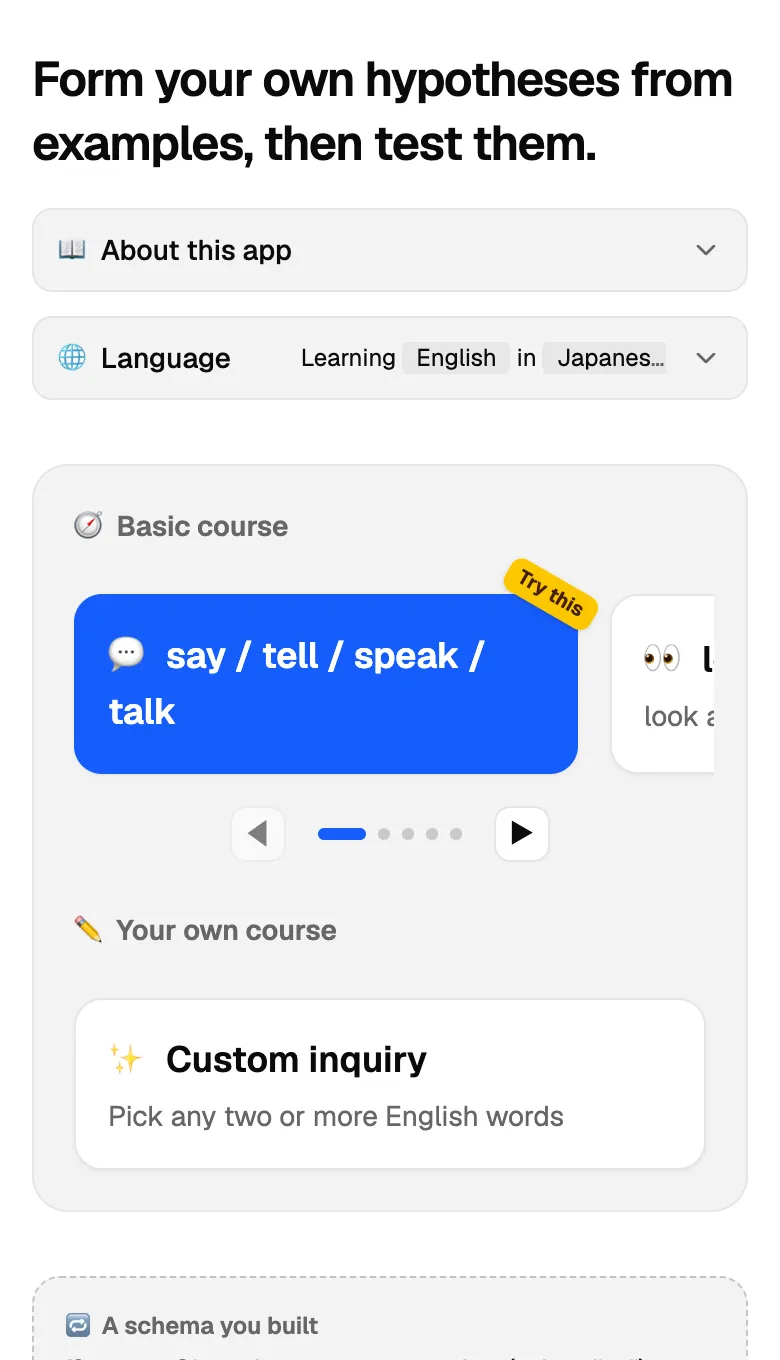
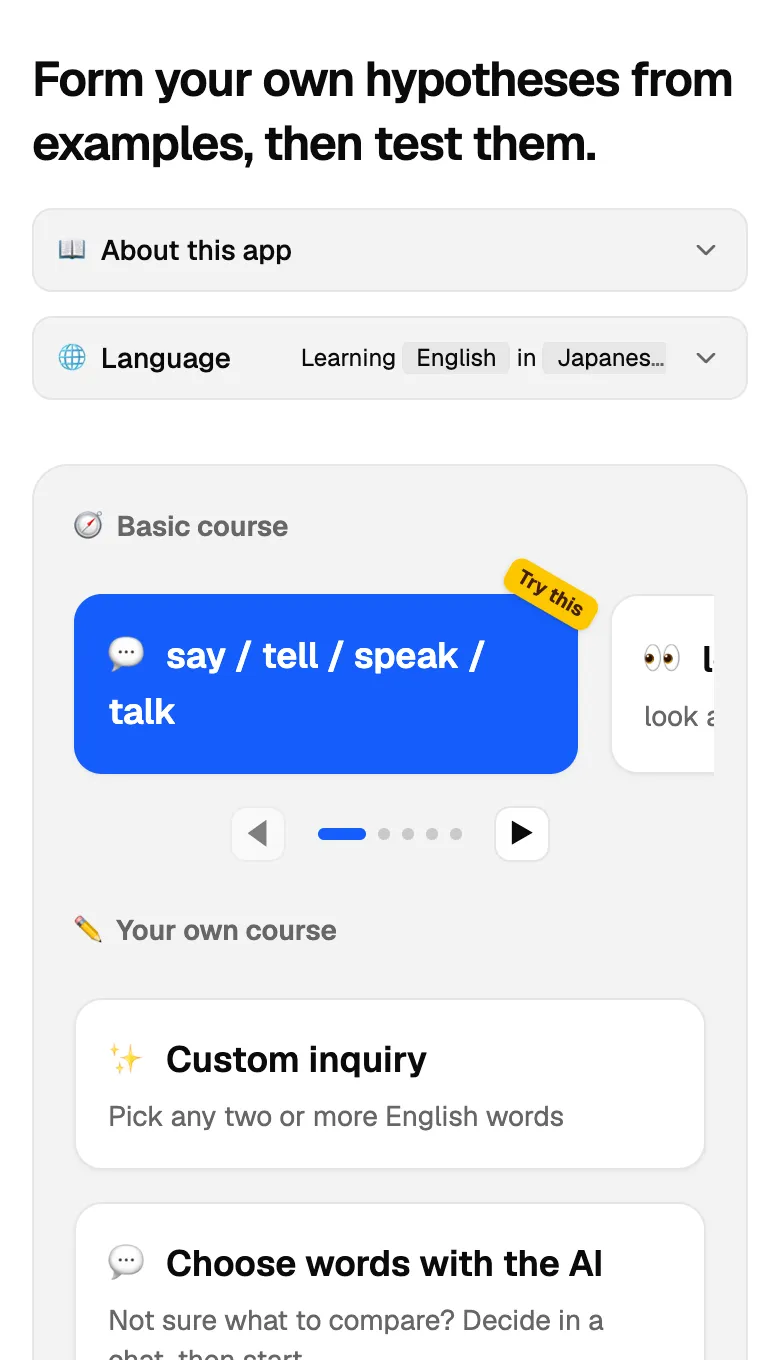
語の組み合わせをAIとチャットで相談し、そのまま探究を始められるようにする (#48)

Changed region(s): [[0.0615, 0.8956, 0.7692, 1.0]]

diff --git a/src/components/inquiry/ConsultDialog.tsx b/src/components/inquiry/ConsultDialog.tsx
@@ -1,0 +1,124 @@
+import { useEffect, useRef, useState } from "react";
+import { nanoid } from "nanoid";
+import { Send } from "lucide-react";
+import { Button } from "@/components/ui/button";
+import { Dialog, DialogContent, DialogDescription, DialogFooter, DialogHeader, DialogTitle } from "@/components/ui/dialog";
+import { Textarea } from "@/components/ui/textarea";
+import { useT } from "@/lib/i18n";
+import { describeError, setActiveInquiry } from "@/lib/llm/client";
+import { consultTargets, type ConsultReply, type ConsultTurn } from "@/lib/llm/prompts";
+import type { Target } from "@/lib/types";
+import { cn } from "@/lib/utils";
+import { ErrorText } from "./ErrorText";
+import { FreeTierFullNote } from "./FreeTierFullNote";
+import { NoCredentialNote } from "./NoCredentialNote";
+import { targetColor } from "./target-color";
+
+export type ConsultedTargets = Omit<Target, "id">[];
+
+/**
+ * A chat for learners who do not know which words to compare yet. It ends by handing a combination to
+ * the new-inquiry dialog, together with the inquiry id the chat's AI calls were charged to: the free tier
+ * counts per inquiry, so the consultation and the inquiry it leads to cost one of today's inquiries, not two.
+ */
+export function ConsultDialog({
+  l1,
+  l2,
+  open,
+  onOpenChange,
+  onStart,
+}: {
+  l1: string;
+  l2: string;
+  open: boolean;
+  onOpenChange: (o: boolean) => void;
+  onStart: (targets: ConsultedTargets, inquiryId: string) => void;
+}) {
+  const t = useT();
+  const [inquiryId] = useState(() => nanoid(10));
+  const [turns, setTurns] = useState<(ConsultTurn & { suggestion?: ConsultReply["suggestion"] })[]>([]);
+  const [draft, setDraft] = useState("");
+  const [busy, setBusy] = useState(false);
+  const [error, setError] = useState<string | null>(null);
+  const bottom = useRef<HTMLDivElement>(null);
+
+  useEffect(() => {
+    setActiveInquiry(inquiryId);
+    return () => setActiveInquiry(null);
+  }, [inquiryId]);
+  useEffect(() => { bottom.current?.scrollIntoView({ block: "end" }); }, [turns, busy]);
+
+  async function send() {
+    const text = draft.trim();
+    if (!text || busy) return;
+    const history = [...turns, { role: "learner" as const, text }];
+    setTurns(history);
+    setDraft("");
+    setError(null);
+    setBusy(true);
+    try {
+      const { data } = await consultTargets(l1, l2, history.map(({ role, text }) => ({ role, text })));
+      setTurns([...history, { role: "assistant", text: data.reply, suggestion: data.suggestion && data.suggestion.length >= 2 ? data.suggestion.slice(0, 4) : null }]);
+    } catch (e) {
+      setError(describeError(e));
+      // Give the message back so it can be sent again as it was.
+      setTurns(turns);
+      setDraft(text);
+    } finally {
+      setBusy(false);
+    }
+  }
+
+  return (
+    <Dialog open={open} onOpenChange={onOpenChange}>
+      <DialogContent className="flex max-h-[90dvh] flex-col sm:max-w-lg">
+        <DialogHeader>
+          <DialogTitle>{t({ ja: "💬 比べる語をAIと相談する", en: "💬 Choose words with the AI" })}</DialogTitle>
+          <DialogDescription className="whitespace-pre-line">
+            {t({
+              ja: "言いたいことや、迷っている表現を書いてください。\n比べるとよい語の組み合わせを一緒に考えます（違いの答えは教えません）。",
+              en: "Write what you want to say, or which expressions confuse you.\nThe AI suggests words worth comparing (without telling you how they differ).",
+            })}
+          </DialogDescription>
+        </DialogHeader>
+
+        <div className="grid min-h-24 gap-3 overflow-y-auto" aria-live="polite">
+          {turns.map((x, i) => (
+            <div key={i} className={cn("grid gap-2", x.role === "learner" && "justify-items-end")}>
+              <p lang={l1} className={cn("max-w-[85%] rounded-xl px-3 py-2 text-sm whitespace-pre-line", x.role === "learner" ? "bg-primary text-primary-foreground" : "bg-muted")}>{x.text}</p>
+              {x.suggestion && (
+                <div className="grid max-w-[85%] gap-2 rounded-xl border p-3">
+                  <div className="flex flex-wrap gap-2">
+                    {x.suggestion.map((s, j) => (
+                      <span key={j} lang={l2} className={cn("rounded-lg border px-3 py-1 text-base", targetColor(j))}>{s.label}</span>
+                    ))}
+                  </div>
+                  <Button size="sm" onClick={() => onStart(x.suggestion!, inquiryId)}>{t({ ja: "🚀 この組み合わせで探究を始める", en: "🚀 Start an inquiry with these" })}</Button>
+                </div>
+              )}
+            </div>
+          ))}
+          {busy && <p className="text-sm text-muted-foreground">{t({ ja: "考えています…", en: "Thinking…" })}</p>}
+          <div ref={bottom} />
+        </div>
+
+        {error && <ErrorText code={error} className="text-sm text-destructive" />}
+        <FreeTierFullNote active={open} />
+        <NoCredentialNote />
+        <DialogFooter>
+          <form className="flex w-full items-end gap-2" onSubmit={(e) => { e.preventDefault(); void send(); }}>
+            <Textarea
+              lang={l1}
+              value={draft}
+              onChange={(e) => setDraft(e.target.value)}
+              // Enter sends; Shift+Enter and IME confirmation do not.
+              onKeyDown={(e) => { if (e.key === "Enter" && !e.shiftKey && !e.nativeEvent.isComposing) { e.preventDefault(); void send(); } }}
+              placeholder={t({ ja: "例: 「思う」を英語でどう言い分ければいい？", en: "e.g. Which words mean 'think' in different ways?" })}
+            />
+            <Button type="submit" size="icon" className="shrink-0" disabled={busy || !draft.trim()} aria-label={t({ ja: "送信", en: "Send" })}><Send /></Button>
+          </form>
+        </DialogFooter>
+      </DialogContent>
+    </Dialog>
+  );
+}

diff --git a/src/pages/Home.tsx b/src/pages/Home.tsx
@@ -2,6 +2,7 @@ import { useEffect, useState, type ReactNode } from "react";
 import { Link, useNavigate } from "react-router-dom";
 import { useLiveQuery } from "dexie-react-hooks";
 import { Trash2 } from "lucide-react";
+import { ConsultDialog, type ConsultedTargets } from "@/components/inquiry/ConsultDialog";
 import { NewInquiryDialog } from "@/components/inquiry/NewInquiryDialog";
 import { TargetBadge } from "@/components/inquiry/TargetBadge";
 import { Button } from "@/components/ui/button";
@@ -62,7 +63,8 @@ export function Home() {
   const t = useT();
   const nav = useNavigate();
   const { uiLang, defaultL2, tutorial } = useSettings();
-  const [dialog, setDialog] = useState<{ group: CourseGroup | null; preselect?: string[] } | null>(null);
+  const [dialog, setDialog] = useState<{ group: CourseGroup | null; preselect?: string[]; initialTargets?: ConsultedTargets; inquiryId?: string } | null>(null);
+  const [consulting, setConsulting] = useState(false);
   const loadedInquiries = useLiveQuery(() => db.inquiries.orderBy("updatedAt").reverse().toArray(), []);
   const loadedNotes = useLiveQuery(() => db.schemaNotes.orderBy("createdAt").reverse().limit(1).toArray(), []);
   const inquiries = loadedInquiries ?? [];
@@ -208,6 +210,10 @@ export function Home() {
               <div className="text-lg font-semibold"><span className="mr-2">✨</span>{t({ ja: "自由に探究する", en: "Custom inquiry" })}</div>
               <div className={cn("mt-1 text-sm", freeRecommended ? "text-blue-100" : "text-muted-foreground")}>{t({ ja: "2つ以上の英単語を自由に選べる", en: "Pick any two or more English words" })}</div>
             </EntryCard>
+            <EntryCard recommended={false} onClick={() => setConsulting(true)}>
+              <div className="text-lg font-semibold"><span className="mr-2">💬</span>{t({ ja: "AIと語を相談する", en: "Choose words with the AI" })}</div>
+              <div className="mt-1 text-sm text-muted-foreground">{t({ ja: "何を比べるか迷ったら、チャットで決めてから始められる", en: "Not sure what to compare? Decide in a chat, then start" })}</div>
+            </EntryCard>
           </div>
         </section>
       ) : (
@@ -217,6 +223,7 @@ export function Home() {
             <Recommended>
               <Button variant="recommended" onClick={() => setDialog({ group: null })}>{t({ ja: "✨ 自由に探究する", en: "✨ Custom inquiry" })}</Button>
             </Recommended>
+            <Button variant="outline" onClick={() => setConsulting(true)}>{t({ ja: "💬 AIと語を相談する", en: "💬 Choose words with the AI" })}</Button>
           </ButtonRow>
         </section>
       )}
@@ -256,7 +263,16 @@ export function Home() {
         </section>
       )}
 
-      {dialog && <NewInquiryDialog key={dialog.group?.id ?? "custom"} l1={NATIVE_LANGUAGE} l2={defaultL2} group={dialog.group} preselect={dialog.preselect} open onOpenChange={(o) => !o && setDialog(null)} />}
+      {consulting && (
+        <ConsultDialog
+          l1={NATIVE_LANGUAGE}
+          l2={defaultL2}
+          open
+          onOpenChange={setConsulting}
+          onStart={(initialTargets, inquiryId) => { setConsulting(false); setDialog({ group: null, initialTargets, inquiryId }); }}
+        />
+      )}
+      {dialog && <NewInquiryDialog key={dialog.inquiryId ?? dialog.group?.id ?? "custom"} l1={NATIVE_LANGUAGE} l2={defaultL2} group={dialog.group} preselect={dialog.preselect} initialTargets={dialog.initialTargets} inquiryId={dialog.inquiryId} open onOpenChange={(o) => !o && setDialog(null)} />}
     </div>
   );
 }

diff --git a/src/lib/llm/prompts.ts b/src/lib/llm/prompts.ts
@@ -315,3 +315,35 @@ export async function writingFeedback(
   const { data, model, generatedAt } = await structured(systemPrompt(l1, l2), user, FeedbackSchema, { effort: "medium", maxTokens: 3000 });
   return { comments: data.comments, meta: { model, generatedAt } };
 }
+
+// ---------- Choosing what to compare (consultation before an inquiry) ----------
+
+const ConsultSchema = z.object({
+  reply: z.string().describe("the reply to the learner, in the learner's native language, a few short sentences"),
+  suggestion: z
+    .array(z.object({ label: z.string(), kind: z.enum(["word", "phrase", "pattern"]) }))
+    .nullable()
+    .describe("2–4 expressions to compare, when a concrete combination is being proposed in this reply; otherwise null"),
+});
+
+export type ConsultTurn = { role: "learner" | "assistant"; text: string };
+export type ConsultReply = z.infer<typeof ConsultSchema>;
+
+/**
+ * Helps pick the expressions for an inquiry, and nothing more: telling how they differ would take away
+ * the comparison the inquiry exists for, so this prompt forbids it just as the example prompts do.
+ */
+export async function consultTargets(l1: string, l2: string, history: ConsultTurn[], opts: CallOptions = {}) {
+  const system = `You help a learner of ${langName(l2)} decide which expressions to compare in an inquiry.
+The learner's native language is ${langName(l1)}. Always reply in ${langName(l1)}.
+
+In an inquiry the learner compares AI-generated example sentences of 2–4 similar ${langName(l2)} expressions and forms their own hypothesis about how they differ.
+
+Rules:
+1. Ask what the learner wants to express, where they get confused, or what situation they have in mind, when that is not clear yet. One or two short questions at a time.
+2. Propose combinations of 2–4 ${langName(l2)} expressions that are close in meaning or easily confused, and good to compare. Put the combination you currently recommend in "suggestion".
+3. Do NOT explain how the expressions differ in meaning, nuance, or usage. That is what the learner will discover. You may say why the set is worth comparing (e.g. "both can translate as ...").
+4. Keep replies short and friendly.`;
+  const user = history.map((x) => `${x.role === "learner" ? "Learner" : "You"}: ${x.text}`).join("\n\n");
+  return structured(system, user, ConsultSchema, { maxTokens: 2000, ...opts });
+}

diff --git a/tests/ui/consult.test.ts b/tests/ui/consult.test.ts
@@ -1,0 +1,47 @@
+import { afterAll, afterEach, beforeAll, describe, expect, it } from "vitest";
+import { openApp, shown, startApp, stopApp, type AppPage } from "./harness";
+
+/** Choosing the words in a chat, then carrying them into a new custom inquiry. The AI is the fake proxy. */
+
+let app: AppPage;
+
+beforeAll(async () => {
+  await startApp({ proxy: true });
+}, 120_000);
+
+afterAll(async () => {
+  await stopApp();
+});
+
+afterEach(async () => {
+  if (app) {
+    expect(app.blocked).toEqual([]);
+    expect(app.errors).toEqual([]);
+    await app.close();
+  }
+});
+
+const room = { used: 0, limit: 5 };
+const quota = { device: room, ip: room, global: room, budget: { admitting: true, open: true }, rules: { device: 3, deviceFirstDay: 5, perInquiry: 60, ttlDays: 3 }, model: "m", resetAt: Date.now() + 3600_000 };
+const suggestion = { reply: "この2つを比べてみましょう。", suggestion: [{ label: "think", kind: "word" }, { label: "believe", kind: "word" }] };
+
+describe("the word consultation", () => {
+  it("suggests a combination in the chat and starts a custom inquiry with it", async () => {
+    app = await openApp({
+      proxy: (path) => (path === "/quota" ? { status: 200, body: quota } : path === "/generate" ? { status: 200, body: { text: JSON.stringify(suggestion), model: "m" } } : { status: 404, body: {} }),
+    });
+    await app.go("/");
+    await app.page.getByRole("button", { name: /AIと語を相談する/ }).click();
+    await app.page.getByRole("dialog").locator("textarea").fill("「思う」の言い分けが知りたい");
+    await app.page.getByRole("button", { name: "送信" }).click();
+
+    expect(await shown(app.page.getByText("この2つを比べてみましょう。"))).toBe(true);
+    await app.page.getByRole("button", { name: /この組み合わせで探究を始める/ }).click();
+
+    const dialog = app.page.getByRole("dialog");
+    expect(await shown(dialog.getByText("自由に探究する"))).toBe(true);
+    expect(await shown(dialog.getByRole("button", { name: "think" }))).toBe(true);
+    expect(await shown(dialog.getByRole("button", { name: "believe" }))).toBe(true);
+    expect(await dialog.getByRole("button", { name: /進む/ }).isEnabled()).toBe(true);
+  });
+});

diff --git a/src/lib/llm/prompts.test.ts b/src/lib/llm/prompts.test.ts
@@ -1,7 +1,7 @@
 import { beforeEach, describe, expect, it, vi } from "vitest";
 import { SYSTEM_SIGNATURE } from "./providers";
 import { structured } from "./client";
-import { frameTest, generateExamples, generateExamplesForTarget, qaCheck, translateTest, writingFeedback } from "./prompts";
+import { consultTargets, frameTest, generateExamples, generateExamplesForTarget, qaCheck, translateTest, writingFeedback } from "./prompts";
 import type { GenerateExamplesInput } from "./prompts";
 import type { Sentence, Target } from "../types";
 import { courses } from "../courses";
@@ -274,5 +274,16 @@ describe("the at / in / on course", () => {
     const { user } = lastCall();
     expect(user).toContain('one of these candidates only: "at", "in", "on"');
     expect(user).toContain("Where Japanese expresses the target after its word (a particle or postposition), the number sits before that whole phrase");
+  });
+});
+
+describe("consultTargets", () => {
+  it("replies in the learner's language, never explains the differences, and sends the whole conversation", async () => {
+    reply({ reply: "ok", suggestion: null });
+    await consultTargets("ja", "en", [{ role: "learner", text: "思うの言い方" }, { role: "assistant", text: "どんな場面？" }, { role: "learner", text: "会議" }]);
+    const { system, user } = lastCall();
+    expect(system).toContain("Always reply in Japanese");
+    expect(system).toContain("Do NOT explain how the expressions differ");
+    expect(user).toBe("Learner: 思うの言い方\n\nYou: どんな場面？\n\nLearner: 会議");
   });
 });

diff --git a/src/components/inquiry/NewInquiryDialog.tsx b/src/components/inquiry/NewInquiryDialog.tsx
@@ -34,6 +34,8 @@ export function NewInquiryDialog({
   l2,
   group,
   preselect,
+  initialTargets,
+  inquiryId,
   open,
   onOpenChange,
 }: {
@@ -42,6 +44,10 @@ export function NewInquiryDialog({
   group: CourseGroup | null; // null = custom
   /** labels of the group's words to start with (default: its first two) */
   preselect?: string[];
+  /** a custom inquiry's words, chosen beforehand in the consultation */
+  initialTargets?: Omit<Target, "id">[];
+  /** the id the consultation's AI calls were charged to, so the inquiry keeps it */
+  inquiryId?: string;
   open: boolean;
   onOpenChange: (o: boolean) => void;
 }) {
@@ -51,7 +57,7 @@ export function NewInquiryDialog({
   const nav = useNavigate();
   const [step, setStep] = useState(0);
   const [targets, setTargets] = useState<Target[]>(() =>
-    group ? group.targets.map((x) => ({ ...x, id: nanoid(6) })) : [],
+    (group?.targets ?? initialTargets ?? []).map((x) => ({ ...x, id: nanoid(6) })),
   );
   const [enabled, setEnabled] = useState<Set<string>>(() => new Set(group ? (preselect ? targets.filter((x) => preselect.includes(x.label)) : targets.slice(0, 2)).map((x) => x.id) : []));
   const [label, setLabel] = useState("");
@@ -81,7 +87,7 @@ export function NewInquiryDialog({
       question: question.trim() || undefined,
       genre: settings.genre,
       level: settings.level,
-    });
+    }, inquiryId);
     const generate: ExamplesParams = {
       targetIds: chosen.map((x) => x.id),
       count: settings.count,

diff --git a/src/lib/db.ts b/src/lib/db.ts
@@ -19,9 +19,10 @@ class AbductionDB extends Dexie {
 
 export const db = new AbductionDB();
 
-export async function createInquiry(data: Omit<Inquiry, "id" | "createdAt" | "updatedAt">) {
+/** id: an id handed out beforehand, when AI calls were already charged to it (the word consultation on the free tier). */
+export async function createInquiry(data: Omit<Inquiry, "id" | "createdAt" | "updatedAt">, id = nanoid(10)) {
   const now = Date.now();
-  const inquiry: Inquiry = { ...data, id: nanoid(10), createdAt: now, updatedAt: now };
+  const inquiry: Inquiry = { ...data, id, createdAt: now, updatedAt: now };
   await db.inquiries.add(inquiry);
   return inquiry;
 }
